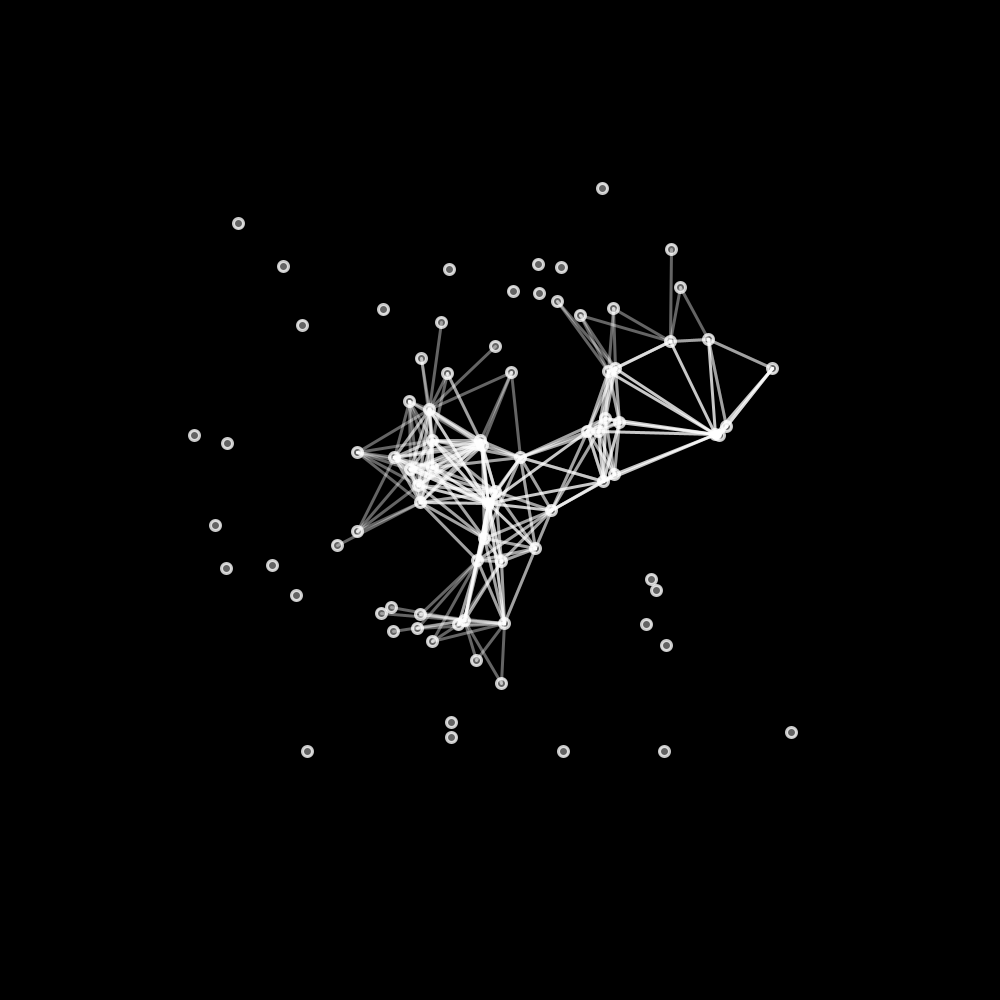
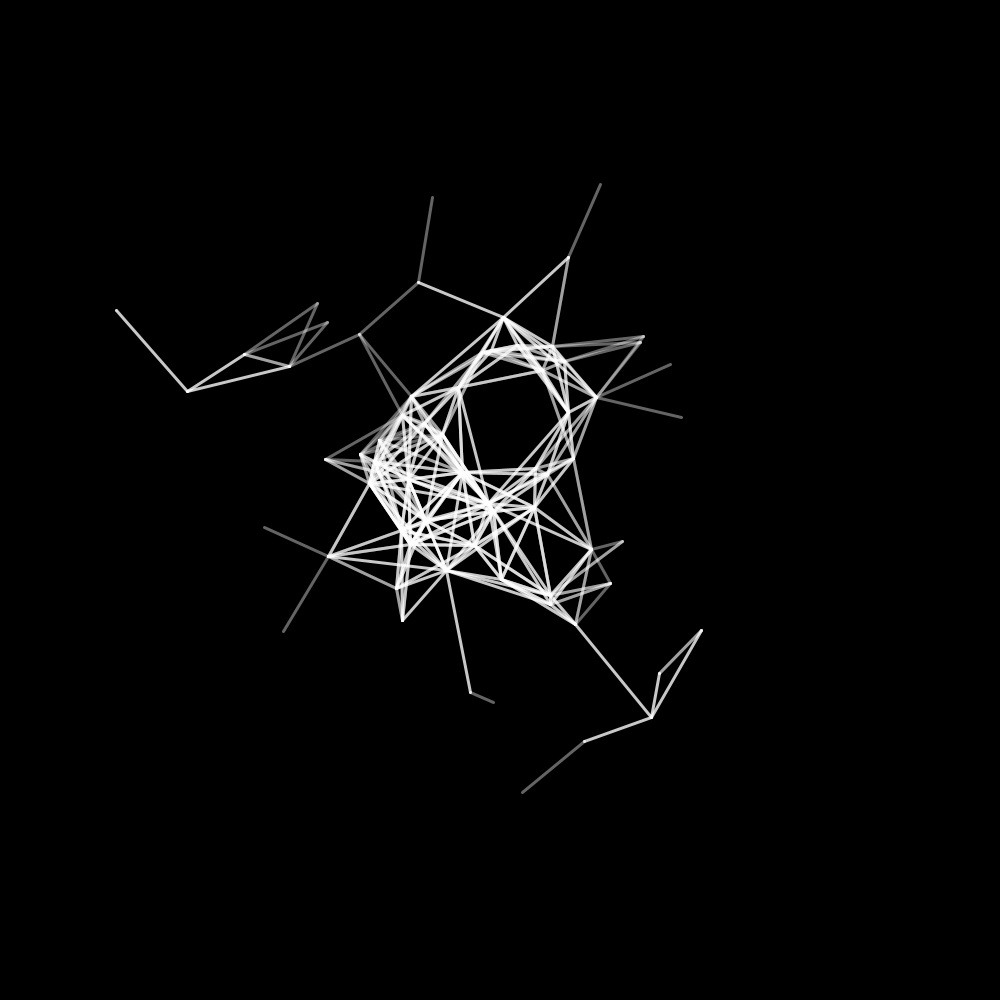
Electrode AND particle positions set with width*noise

diff --git a/README.md b/README.md
@@ -14,6 +14,7 @@ Creative Coding Projects written in Processing. Mostly in progress.
 <a href = "Nearest_Neighbour_Study/Nearest_Neighbour_Study_04"><img src="Nearest_Neighbour_Study/Nearest_Neighbour_Study_04.png" width="100" alt="Nearest_Neighbour_Study/Nearest_Neighbour_Study_04.png"></a>
 <a href = "Nearest_Neighbour_Study/Nearest_Neighbour_Study_04_01"><img src="Nearest_Neighbour_Study/Nearest_Neighbour_Study_04_01.png" width="100" alt="Nearest_Neighbour_Study/Nearest_Neighbour_Study_04_01.png"></a>
 <a href = "Nearest_Neighbour_Study/Nearest_Neighbour_Study_04_02"><img src="Nearest_Neighbour_Study/Nearest_Neighbour_Study_04_02.png" width="100" alt="Nearest_Neighbour_Study/Nearest_Neighbour_Study_04_02.png"></a>
+<a href = "Nearest_Neighbour_Study/Nearest_Neighbour_Study_04_03"><img src="Nearest_Neighbour_Study/Nearest_Neighbour_Study_04_03.png" width="100" alt="Nearest_Neighbour_Study/Nearest_Neighbour_Study_04_03.png"></a>
 ## [Nuclear Reactor Sim](Nuclear%20Reactor%20Sim)
 <a href = "Nuclear Reactor Sim/Nuclear_Reactor_Sim_01"><img src="Nuclear Reactor Sim/Nuclear_Reactor_Sim_01.png" width="100" alt="Nuclear Reactor Sim/Nuclear_Reactor_Sim_01.png"></a>
 ## [Paint Can Swing Emulator](Paint%20Can%20Swing%20Emulator)
